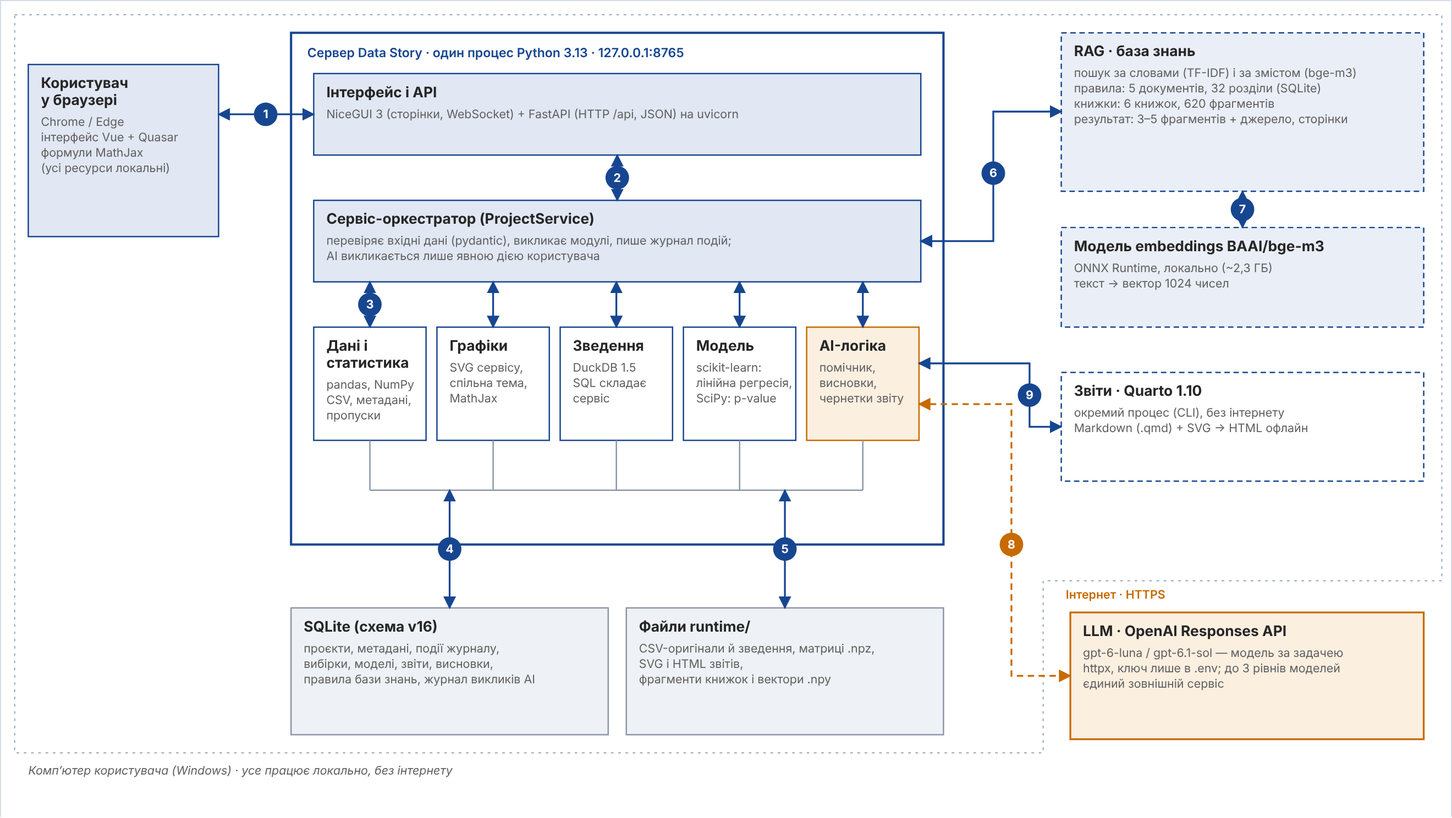
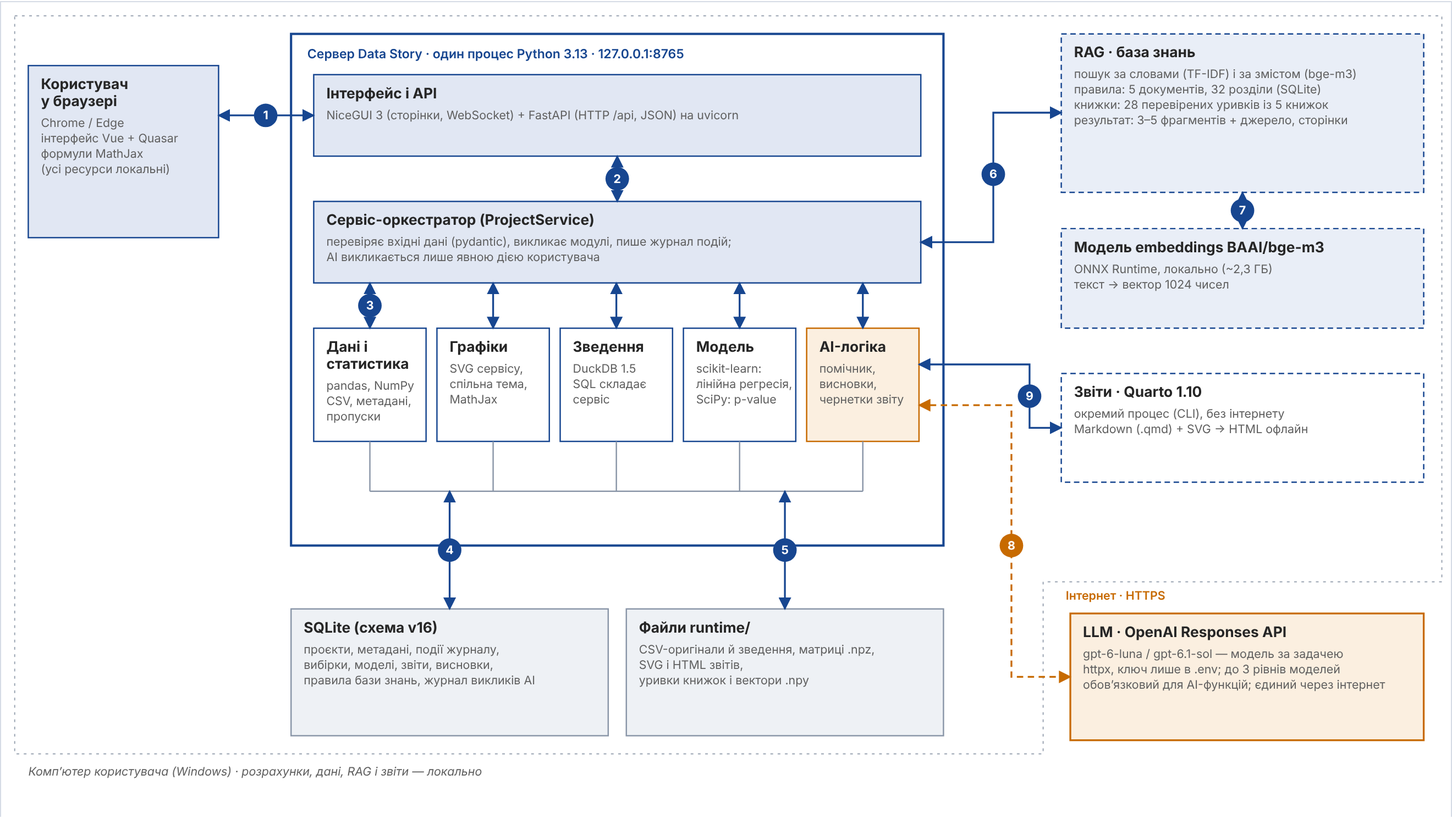
Architecture: LLM (OpenAI over the internet) is required; RAG corpus after review 099
Claude-Session: https://claude.ai/code/session_015wYK8grFnm8vmYnAAQsW2f

diff --git a/deliverables/architecture/architecture.html b/deliverables/architecture/architecture.html
@@ -61,7 +61,7 @@ ol.path li { display:grid; grid-template-columns:64px minmax(0,1fr); gap:10px; a
 <header>
   <span class="kicker">Data Story · фінальний проєкт курсу</span>
   <h1>Як влаштований сервіс і хто кому що передає</h1>
-  <p class="lead">Окремі складові, пронумеровані потоки даних і технологія на кожному рівні. Усе працює на комп’ютері користувача; в інтернет іде лише запит до OpenAI, і лише за дією користувача.</p>
+  <p class="lead">Окремі складові, пронумеровані потоки даних і технологія на кожному рівні. Дані, розрахунки, пошук у базі знань і звіти працюють на комп’ютері користувача. LLM — обов’язкова частина сервісу: це OpenAI, до якого сервіс звертається через інтернет за дією користувача.</p>
 </header>
 <div class="figure"><svg viewBox="0 0 1600 900" role="img" aria-labelledby="t d" xmlns="http://www.w3.org/2000/svg">
 <title id="t">Архітектура Data Story</title>
@@ -72,7 +72,7 @@ ol.path li { display:grid; grid-template-columns:64px minmax(0,1fr); gap:10px; a
 <marker id="aeo" viewBox="0 0 10 10" refX="9" refY="5" markerWidth="7" markerHeight="7" orient="auto"><path d="M0 0 L10 5 L0 10 z" class="mho"/></marker>
 <marker id="aso" viewBox="0 0 10 10" refX="1" refY="5" markerWidth="7" markerHeight="7" orient="auto"><path d="M10 0 L0 5 L10 10 z" class="mho"/></marker>
 </defs>
-<path class="zone" d="M15 15 H1590 V640 H1150 V830 H15 Z"/><text class="zl" x="30" y="854">Комп’ютер користувача (Windows) · усе працює локально, без інтернету</text><text class="zlo" x="1175" y="660">Інтернет · HTTPS</text><rect class="b user" x="30" y="70" width="210" height="190"/><text class="bt" x="44" y="96">Користувач</text><text class="bt" x="44" y="115">у браузері</text><text class="bl" x="44" y="138">Chrome / Edge</text><text class="bl" x="44" y="155">інтерфейс Vue + Quasar</text><text class="bl" x="44" y="172">формули MathJax</text><text class="bl" x="44" y="189">(усі ресурси локальні)</text><rect class="srv" x="320" y="35" width="720" height="565"/><text class="srvl" x="338" y="62">Сервер Data Story · один процес Python 3.13 · 127.0.0.1:8765</text><rect class="b core" x="345" y="80" width="670" height="90"/><text class="bt" x="359" y="106">Інтерфейс і API</text><text class="bl" x="359" y="129">NiceGUI 3 (сторінки, WebSocket) + FastAPI (HTTP /api, JSON) на uvicorn</text><rect class="b core" x="345" y="220" width="670" height="90"/><text class="bt" x="359" y="246">Сервіс-оркестратор (ProjectService)</text><text class="bl" x="359" y="269">перевіряє вхідні дані (pydantic), викликає модулі, пише журнал подій;</text><text class="bl" x="359" y="286">AI викликається лише явною дією користувача</text><rect class="b mod" x="345" y="360" width="124" height="125"/><text class="bt" x="359" y="386">Дані і</text><text class="bt" x="359" y="405">статистика</text><text class="bl" x="359" y="428">pandas, NumPy</text><text class="bl" x="359" y="445">CSV, метадані,</text><text class="bl" x="359" y="462">пропуски</text><path class="ln" d="M407 310 V360" marker-start="url(#as)" marker-end="url(#ae)"/><path class="bus" d="M407 485 V540"/><rect class="b mod" x="481" y="360" width="124" height="125"/><text class="bt" x="495" y="386">Графіки</text><text class="bl" x="495" y="409">SVG сервісу,</text><text class="bl" x="495" y="426">спільна тема,</text><text class="bl" x="495" y="443">MathJax</text><path class="ln" d="M543 310 V360" marker-start="url(#as)" marker-end="url(#ae)"/><path class="bus" d="M543 485 V540"/><rect class="b mod" x="617" y="360" width="124" height="125"/><text class="bt" x="631" y="386">Зведення</text><text class="bl" x="631" y="409">DuckDB 1.5</text><text class="bl" x="631" y="426">SQL складає</text><text class="bl" x="631" y="443">сервіс</text><path class="ln" d="M679 310 V360" marker-start="url(#as)" marker-end="url(#ae)"/><path class="bus" d="M679 485 V540"/><rect class="b mod" x="753" y="360" width="124" height="125"/><text class="bt" x="767" y="386">Модель</text><text class="bl" x="767" y="409">scikit-learn:</text><text class="bl" x="767" y="426">лінійна регресія,</text><text class="bl" x="767" y="443">SciPy: p-value</text><path class="ln" d="M815 310 V360" marker-start="url(#as)" marker-end="url(#ae)"/><path class="bus" d="M815 485 V540"/><rect class="b mod modai" x="889" y="360" width="124" height="125"/><text class="bt" x="903" y="386">AI-логіка</text><text class="bl" x="903" y="409">помічник,</text><text class="bl" x="903" y="426">висновки,</text><text class="bl" x="903" y="443">чернетки звіту</text><path class="ln" d="M951 310 V360" marker-start="url(#as)" marker-end="url(#ae)"/><path class="bus" d="M951 485 V540"/><circle class="bd" cx="407" cy="335" r="13"/><text class="bn" x="407" y="339.5">3</text><path class="bus" d="M407 540 H951"/><rect class="b store" x="320" y="670" width="350" height="140"/><text class="bt" x="334" y="696">SQLite (схема v16)</text><text class="bl" x="334" y="719">проєкти, метадані, події журналу,</text><text class="bl" x="334" y="736">вибірки, моделі, звіти, висновки,</text><text class="bl" x="334" y="753">правила бази знань, журнал викликів AI</text><rect class="b store" x="690" y="670" width="350" height="140"/><text class="bt" x="704" y="696">Файли runtime/</text><text class="bl" x="704" y="719">CSV-оригінали й зведення, матриці .npz,</text><text class="bl" x="704" y="736">SVG і HTML звітів,</text><text class="bl" x="704" y="753">фрагменти книжок і вектори .npy</text><path class="ln" d="M495 540 V670" marker-start="url(#as)" marker-end="url(#ae)"/><circle class="bd" cx="495" cy="605" r="13"/><text class="bn" x="495" y="609.5">4</text><path class="ln" d="M865 540 V670" marker-start="url(#as)" marker-end="url(#ae)"/><circle class="bd" cx="865" cy="605" r="13"/><text class="bn" x="865" y="609.5">5</text><path class="ln" d="M240 125 H345" marker-start="url(#as)" marker-end="url(#ae)"/><circle class="bd" cx="292" cy="125" r="13"/><text class="bn" x="292" y="129.5">1</text><path class="ln" d="M680 170 V220" marker-start="url(#as)" marker-end="url(#ae)"/><circle class="bd" cx="680" cy="195" r="13"/><text class="bn" x="680" y="199.5">2</text><rect class="b rag" x="1170" y="35" width="400" height="175"/><text class="bt" x="1184" y="61">RAG · база знань</text><text class="bl" x="1184" y="84">пошук за словами (TF-IDF) і за змістом (bge-m3)</text><text class="bl" x="1184" y="101">правила: 5 документів, 32 розділи (SQLite)</text><text class="bl" x="1184" y="118">книжки: 6 книжок, 620 фрагментів</text><text class="bl" x="1184" y="135">результат: 3–5 фрагментів + джерело, сторінки</text><rect class="b rag" x="1170" y="250" width="400" height="110"/><text class="bt" x="1184" y="276">Модель embeddings BAAI/bge-m3</text><text class="bl" x="1184" y="299">ONNX Runtime, локально (~2,3 ГБ)</text><text class="bl" x="1184" y="316">текст → вектор 1024 чисел</text><rect class="b rep" x="1170" y="410" width="400" height="120"/><text class="bt" x="1184" y="436">Звіти · Quarto 1.10</text><text class="bl" x="1184" y="459">окремий процес (CLI), без інтернету</text><text class="bl" x="1184" y="476">Markdown (.qmd) + SVG → HTML офлайн</text><rect class="b llm" x="1180" y="675" width="390" height="140"/><text class="bt" x="1194" y="701">LLM · OpenAI Responses API</text><text class="bl" x="1194" y="724">gpt-6-luna / gpt-6.1-sol — модель за задачею</text><text class="bl" x="1194" y="741">httpx, ключ лише в .env; до 3 рівнів моделей</text><text class="bl" x="1194" y="758">єдиний зовнішній сервіс</text><path class="ln" d="M1015 265 H1095 V122 H1170" marker-start="url(#as)" marker-end="url(#ae)"/><circle class="bd" cx="1095" cy="190" r="13"/><text class="bn" x="1095" y="194.5">6</text><path class="ln" d="M1370 210 V250" marker-start="url(#as)" marker-end="url(#ae)"/><circle class="bd" cx="1370" cy="230" r="13"/><text class="bn" x="1370" y="234.5">7</text><path class="ln" d="M1013 400 H1135 V470 H1170" marker-start="url(#as)" marker-end="url(#ae)"/><circle class="bd" cx="1135" cy="435" r="13"/><text class="bn" x="1135" y="439.5">9</text><path class="ln ai" d="M1013 445 H1115 V745 H1180" marker-start="url(#aso)" marker-end="url(#aeo)"/><circle class="bd bdo" cx="1115" cy="600" r="13"/><text class="bn" x="1115" y="604.5">8</text>
+<path class="zone" d="M15 15 H1590 V640 H1150 V830 H15 Z"/><text class="zl" x="30" y="854">Комп’ютер користувача (Windows) · розрахунки, дані, RAG і звіти — локально</text><text class="zlo" x="1175" y="660">Інтернет · HTTPS</text><rect class="b user" x="30" y="70" width="210" height="190"/><text class="bt" x="44" y="96">Користувач</text><text class="bt" x="44" y="115">у браузері</text><text class="bl" x="44" y="138">Chrome / Edge</text><text class="bl" x="44" y="155">інтерфейс Vue + Quasar</text><text class="bl" x="44" y="172">формули MathJax</text><text class="bl" x="44" y="189">(усі ресурси локальні)</text><rect class="srv" x="320" y="35" width="720" height="565"/><text class="srvl" x="338" y="62">Сервер Data Story · один процес Python 3.13 · 127.0.0.1:8765</text><rect class="b core" x="345" y="80" width="670" height="90"/><text class="bt" x="359" y="106">Інтерфейс і API</text><text class="bl" x="359" y="129">NiceGUI 3 (сторінки, WebSocket) + FastAPI (HTTP /api, JSON) на uvicorn</text><rect class="b core" x="345" y="220" width="670" height="90"/><text class="bt" x="359" y="246">Сервіс-оркестратор (ProjectService)</text><text class="bl" x="359" y="269">перевіряє вхідні дані (pydantic), викликає модулі, пише журнал подій;</text><text class="bl" x="359" y="286">AI викликається лише явною дією користувача</text><rect class="b mod" x="345" y="360" width="124" height="125"/><text class="bt" x="359" y="386">Дані і</text><text class="bt" x="359" y="405">статистика</text><text class="bl" x="359" y="428">pandas, NumPy</text><text class="bl" x="359" y="445">CSV, метадані,</text><text class="bl" x="359" y="462">пропуски</text><path class="ln" d="M407 310 V360" marker-start="url(#as)" marker-end="url(#ae)"/><path class="bus" d="M407 485 V540"/><rect class="b mod" x="481" y="360" width="124" height="125"/><text class="bt" x="495" y="386">Графіки</text><text class="bl" x="495" y="409">SVG сервісу,</text><text class="bl" x="495" y="426">спільна тема,</text><text class="bl" x="495" y="443">MathJax</text><path class="ln" d="M543 310 V360" marker-start="url(#as)" marker-end="url(#ae)"/><path class="bus" d="M543 485 V540"/><rect class="b mod" x="617" y="360" width="124" height="125"/><text class="bt" x="631" y="386">Зведення</text><text class="bl" x="631" y="409">DuckDB 1.5</text><text class="bl" x="631" y="426">SQL складає</text><text class="bl" x="631" y="443">сервіс</text><path class="ln" d="M679 310 V360" marker-start="url(#as)" marker-end="url(#ae)"/><path class="bus" d="M679 485 V540"/><rect class="b mod" x="753" y="360" width="124" height="125"/><text class="bt" x="767" y="386">Модель</text><text class="bl" x="767" y="409">scikit-learn:</text><text class="bl" x="767" y="426">лінійна регресія,</text><text class="bl" x="767" y="443">SciPy: p-value</text><path class="ln" d="M815 310 V360" marker-start="url(#as)" marker-end="url(#ae)"/><path class="bus" d="M815 485 V540"/><rect class="b mod modai" x="889" y="360" width="124" height="125"/><text class="bt" x="903" y="386">AI-логіка</text><text class="bl" x="903" y="409">помічник,</text><text class="bl" x="903" y="426">висновки,</text><text class="bl" x="903" y="443">чернетки звіту</text><path class="ln" d="M951 310 V360" marker-start="url(#as)" marker-end="url(#ae)"/><path class="bus" d="M951 485 V540"/><circle class="bd" cx="407" cy="335" r="13"/><text class="bn" x="407" y="339.5">3</text><path class="bus" d="M407 540 H951"/><rect class="b store" x="320" y="670" width="350" height="140"/><text class="bt" x="334" y="696">SQLite (схема v16)</text><text class="bl" x="334" y="719">проєкти, метадані, події журналу,</text><text class="bl" x="334" y="736">вибірки, моделі, звіти, висновки,</text><text class="bl" x="334" y="753">правила бази знань, журнал викликів AI</text><rect class="b store" x="690" y="670" width="350" height="140"/><text class="bt" x="704" y="696">Файли runtime/</text><text class="bl" x="704" y="719">CSV-оригінали й зведення, матриці .npz,</text><text class="bl" x="704" y="736">SVG і HTML звітів,</text><text class="bl" x="704" y="753">уривки книжок і вектори .npy</text><path class="ln" d="M495 540 V670" marker-start="url(#as)" marker-end="url(#ae)"/><circle class="bd" cx="495" cy="605" r="13"/><text class="bn" x="495" y="609.5">4</text><path class="ln" d="M865 540 V670" marker-start="url(#as)" marker-end="url(#ae)"/><circle class="bd" cx="865" cy="605" r="13"/><text class="bn" x="865" y="609.5">5</text><path class="ln" d="M240 125 H345" marker-start="url(#as)" marker-end="url(#ae)"/><circle class="bd" cx="292" cy="125" r="13"/><text class="bn" x="292" y="129.5">1</text><path class="ln" d="M680 170 V220" marker-start="url(#as)" marker-end="url(#ae)"/><circle class="bd" cx="680" cy="195" r="13"/><text class="bn" x="680" y="199.5">2</text><rect class="b rag" x="1170" y="35" width="400" height="175"/><text class="bt" x="1184" y="61">RAG · база знань</text><text class="bl" x="1184" y="84">пошук за словами (TF-IDF) і за змістом (bge-m3)</text><text class="bl" x="1184" y="101">правила: 5 документів, 32 розділи (SQLite)</text><text class="bl" x="1184" y="118">книжки: 28 перевірених уривків із 5 книжок</text><text class="bl" x="1184" y="135">результат: 3–5 фрагментів + джерело, сторінки</text><rect class="b rag" x="1170" y="250" width="400" height="110"/><text class="bt" x="1184" y="276">Модель embeddings BAAI/bge-m3</text><text class="bl" x="1184" y="299">ONNX Runtime, локально (~2,3 ГБ)</text><text class="bl" x="1184" y="316">текст → вектор 1024 чисел</text><rect class="b rep" x="1170" y="410" width="400" height="120"/><text class="bt" x="1184" y="436">Звіти · Quarto 1.10</text><text class="bl" x="1184" y="459">окремий процес (CLI), без інтернету</text><text class="bl" x="1184" y="476">Markdown (.qmd) + SVG → HTML офлайн</text><rect class="b llm" x="1180" y="675" width="390" height="140"/><text class="bt" x="1194" y="701">LLM · OpenAI Responses API</text><text class="bl" x="1194" y="724">gpt-6-luna / gpt-6.1-sol — модель за задачею</text><text class="bl" x="1194" y="741">httpx, ключ лише в .env; до 3 рівнів моделей</text><text class="bl" x="1194" y="758">обов’язковий для AI-функцій; єдиний через інтернет</text><path class="ln" d="M1015 265 H1095 V122 H1170" marker-start="url(#as)" marker-end="url(#ae)"/><circle class="bd" cx="1095" cy="190" r="13"/><text class="bn" x="1095" y="194.5">6</text><path class="ln" d="M1370 210 V250" marker-start="url(#as)" marker-end="url(#ae)"/><circle class="bd" cx="1370" cy="230" r="13"/><text class="bn" x="1370" y="234.5">7</text><path class="ln" d="M1013 400 H1135 V470 H1170" marker-start="url(#as)" marker-end="url(#ae)"/><circle class="bd" cx="1135" cy="435" r="13"/><text class="bn" x="1135" y="439.5">9</text><path class="ln ai" d="M1013 445 H1115 V745 H1180" marker-start="url(#aso)" marker-end="url(#aeo)"/><circle class="bd bdo" cx="1115" cy="600" r="13"/><text class="bn" x="1115" y="604.5">8</text>
 </svg></div>
 <div class="legend">
   <span><i class="sw"></i>інтерфейс і ядро сервісу</span>
@@ -99,7 +99,7 @@ ol.path li { display:grid; grid-template-columns:64px minmax(0,1fr); gap:10px; a
     <h2>Принципи</h2>
     <p><b>Числа рахує сервіс, не AI.</b> Модель отримує готові факти й лише формулює текст.</p>
     <p><b>AI — лише явною дією.</b> Кожен виклик і токени видно в журналі AI; ключ не потрапляє в журнали.</p>
-    <p><b>RAG локальний.</b> Пошук правил і книжок працює без інтернету; без моделі bge-m3 сервіс переходить на TF-IDF.</p>
+    <p><b>LLM — OpenAI, через інтернет.</b> Без нього не працюють помічник, висновки й пояснення у звіті; решта сервісу (дані, статистика, модель, графіки, HTML-звіт) працює.</p><p><b>RAG локальний.</b> Пошук правил і книжок не потребує інтернету; без моделі bge-m3 сервіс переходить на TF-IDF.</p>
     <p><b>Користувач не пише SQL.</b> DuckDB виконує запит, який сервіс складає з кроків.</p>
   </div>
 </section>

diff --git a/deliverables/architecture/build.py b/deliverables/architecture/build.py
@@ -18,7 +18,7 @@ def line(d, cls="ln", badge=None, bx=0, by=0):
 
 # boundaries
 parts.append('<path class="zone" d="M15 15 H1590 V640 H1150 V830 H15 Z"/>')
-parts.append('<text class="zl" x="30" y="854">Комп’ютер користувача (Windows) · усе працює локально, без інтернету</text>')
+parts.append('<text class="zl" x="30" y="854">Комп’ютер користувача (Windows) · розрахунки, дані, RAG і звіти — локально</text>')
 parts.append('<text class="zlo" x="1175" y="660">Інтернет · HTTPS</text>')
 
 box(30, 70, 210, 190, "Користувач\nу браузері", ["Chrome / Edge", "інтерфейс Vue + Quasar", "формули MathJax", "(усі ресурси локальні)"], "b user", "bt")
@@ -45,7 +45,7 @@ parts.append('<circle class="bd" cx="407" cy="335" r="13"/><text class="bn" x="4
 parts.append('<path class="bus" d="M407 540 H951"/>')
 # storage
 box(320, 670, 350, 140, "SQLite (схема v16)", ["проєкти, метадані, події журналу,", "вибірки, моделі, звіти, висновки,", "правила бази знань, журнал викликів AI"], "b store")
-box(690, 670, 350, 140, "Файли runtime/", ["CSV-оригінали й зведення, матриці .npz,", "SVG і HTML звітів,", "фрагменти книжок і вектори .npy"], "b store")
+box(690, 670, 350, 140, "Файли runtime/", ["CSV-оригінали й зведення, матриці .npz,", "SVG і HTML звітів,", "уривки книжок і вектори .npy"], "b store")
 line("M495 540 V670", "ln", "4", 495, 605)
 line("M865 540 V670", "ln", "5", 865, 605)
 # browser <-> UI
@@ -53,10 +53,10 @@ line("M240 125 H345", "ln", "1", 292, 125)
 # UI <-> orchestrator
 line("M680 170 V220", "ln", "2", 680, 195)
 # right column
-box(1170, 35, 400, 175, "RAG · база знань", ["пошук за словами (TF-IDF) і за змістом (bge-m3)", "правила: 5 документів, 32 розділи (SQLite)", "книжки: 6 книжок, 620 фрагментів", "результат: 3–5 фрагментів + джерело, сторінки"], "b rag")
+box(1170, 35, 400, 175, "RAG · база знань", ["пошук за словами (TF-IDF) і за змістом (bge-m3)", "правила: 5 документів, 32 розділи (SQLite)", "книжки: 28 перевірених уривків із 5 книжок", "результат: 3–5 фрагментів + джерело, сторінки"], "b rag")
 box(1170, 250, 400, 110, "Модель embeddings BAAI/bge-m3", ["ONNX Runtime, локально (~2,3 ГБ)", "текст → вектор 1024 чисел"], "b rag")
 box(1170, 410, 400, 120, "Звіти · Quarto 1.10", ["окремий процес (CLI), без інтернету", "Markdown (.qmd) + SVG → HTML офлайн"], "b rep")
-box(1180, 675, 390, 140, "LLM · OpenAI Responses API", ["gpt-6-luna / gpt-6.1-sol — модель за задачею", "httpx, ключ лише в .env; до 3 рівнів моделей", "єдиний зовнішній сервіс"], "b llm")
+box(1180, 675, 390, 140, "LLM · OpenAI Responses API", ["gpt-6-luna / gpt-6.1-sol — модель за задачею", "httpx, ключ лише в .env; до 3 рівнів моделей", "обов’язковий для AI-функцій; єдиний через інтернет"], "b llm")
 line("M1015 265 H1095 V122 H1170", "ln", "6", 1095, 190)
 line("M1370 210 V250", "ln", "7", 1370, 230)
 line("M1013 400 H1135 V470 H1170", "ln", "9", 1135, 435)
@@ -161,7 +161,7 @@ ol.path li {{ display:grid; grid-template-columns:64px minmax(0,1fr); gap:10px; 
 <header>
   <span class="kicker">Data Story · фінальний проєкт курсу</span>
   <h1>Як влаштований сервіс і хто кому що передає</h1>
-  <p class="lead">Окремі складові, пронумеровані потоки даних і технологія на кожному рівні. Усе працює на комп’ютері користувача; в інтернет іде лише запит до OpenAI, і лише за дією користувача.</p>
+  <p class="lead">Окремі складові, пронумеровані потоки даних і технологія на кожному рівні. Дані, розрахунки, пошук у базі знань і звіти працюють на комп’ютері користувача. LLM — обов’язкова частина сервісу: це OpenAI, до якого сервіс звертається через інтернет за дією користувача.</p>
 </header>
 <div class="figure">{svg}</div>
 <div class="legend">
@@ -189,7 +189,7 @@ ol.path li {{ display:grid; grid-template-columns:64px minmax(0,1fr); gap:10px; 
     <h2>Принципи</h2>
     <p><b>Числа рахує сервіс, не AI.</b> Модель отримує готові факти й лише формулює текст.</p>
     <p><b>AI — лише явною дією.</b> Кожен виклик і токени видно в журналі AI; ключ не потрапляє в журнали.</p>
-    <p><b>RAG локальний.</b> Пошук правил і книжок працює без інтернету; без моделі bge-m3 сервіс переходить на TF-IDF.</p>
+    <p><b>LLM — OpenAI, через інтернет.</b> Без нього не працюють помічник, висновки й пояснення у звіті; решта сервісу (дані, статистика, модель, графіки, HTML-звіт) працює.</p><p><b>RAG локальний.</b> Пошук правил і книжок не потребує інтернету; без моделі bge-m3 сервіс переходить на TF-IDF.</p>
     <p><b>Користувач не пише SQL.</b> DuckDB виконує запит, який сервіс складає з кроків.</p>
   </div>
 </section>
